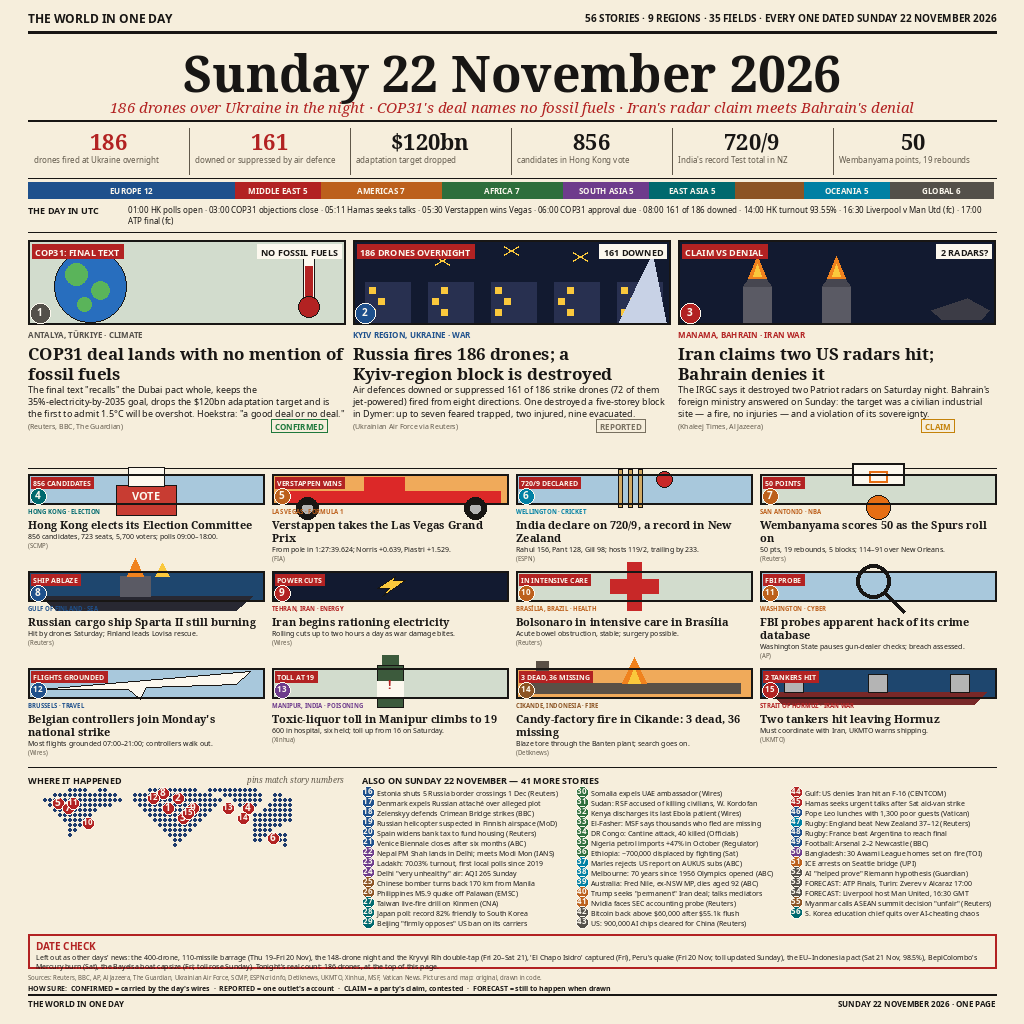
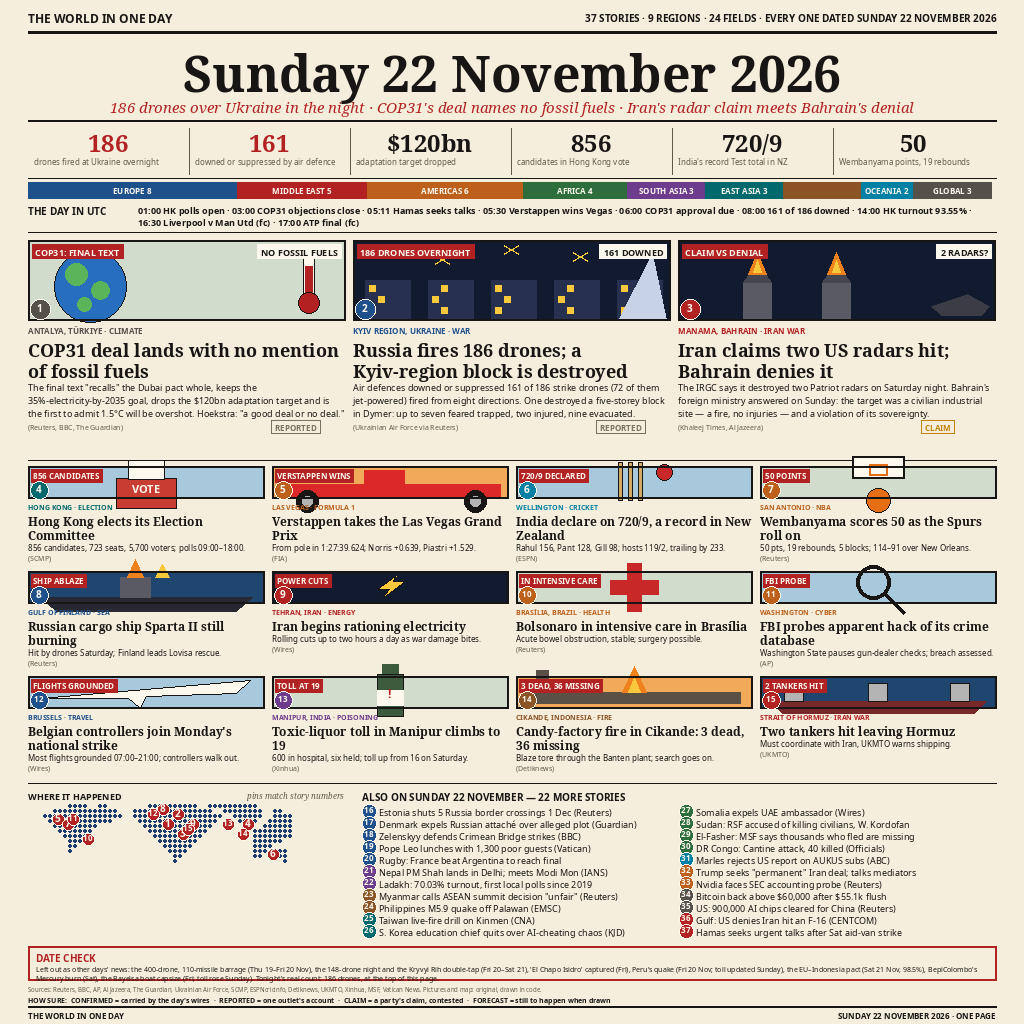
Rebuild at 37 stories: legibility-first (bigger type, 2-col index)

diff --git a/main.py b/main.py
@@ -2,7 +2,7 @@
 """news-image-20261122 entry: writes the 22 Nov 2026 front page to /output/entry.png.
 
 The image (entry.png beside this file) is a 1024x1024 newspaper front page drawn
-for Sunday 22 November 2026: 56 date-checked stories across 9 regions and 35
+for Sunday 22 November 2026: 37 date-checked stories across 9 regions and 24
 fields, three illustrated lead stories, a numbers strip, region coverage bars, a
 UTC strip and a full story index. The program only copies those bytes, so both
 grader runs write identical output with no network.

diff --git a/README.md b/README.md
@@ -4,8 +4,8 @@
 [![rank](https://make.fun/badge/news-image-20261122/BokeXe/news-image-20261122/rank.svg)](https://make.fun/bounty/news-image-20261122/leaderboard?utm_source=github&utm_medium=readme&utm_campaign=news-image-20261122)
 [![reward](https://make.fun/badge/news-image-20261122/BokeXe/news-image-20261122/reward.svg)](https://make.fun/bounty/news-image-20261122?utm_source=github&utm_medium=readme&utm_campaign=news-image-20261122)
 
-Sunday 22 November 2026 in one image: a newspaper front page with 56 date-checked
-stories across 9 regions and 35 fields — three illustrated leads (COP31's deal
+Sunday 22 November 2026 in one image: a newspaper front page with 37 date-checked
+stories across 9 regions and 24 fields — three illustrated leads (COP31's deal
 names no fossil fuels; Russia fires 186 drones over Ukraine; Iran's radar claim
 meets Bahrain's denial), a numbers strip, region coverage bars, a UTC strip, and
 a full numbered story index. Every story is tagged by source and confidence
